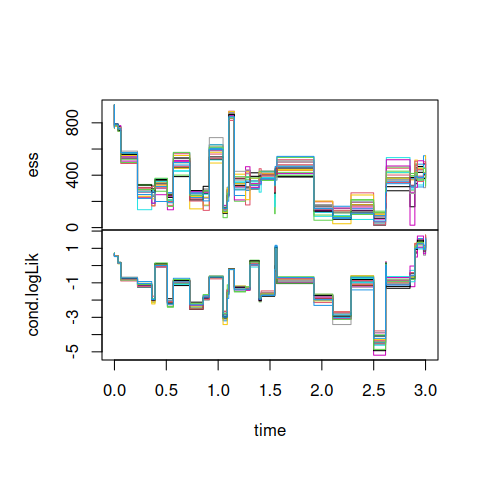
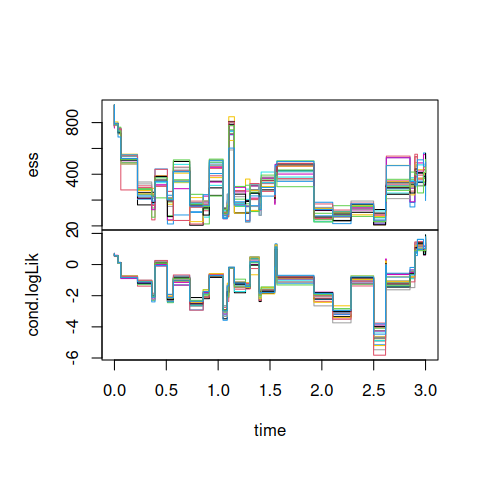
alternative filter scheme for SEIRS

diff --git a/src/seirs_pomp.c b/src/seirs_pomp.c
@@ -4,7 +4,7 @@
 #define Exposed  1
 #define Infected 2
 
-static const int nrate = 7;
+static const int nrate = 6;
 
 static inline int random_choice (double n) {
   return floor(R_unif_index(n));
@@ -65,31 +65,29 @@ static double event_rates
   double event_rate = 0;
   double alpha, pi;
   *penalty = 0;
-  // 0: transmission, s=(0,0)
+  // 0: transmission, s=(0,0) or s=(0,1)
   assert(S>=0 && I>=0);
   alpha = (POP > 0) ? Beta*S*I/POP : 0;
   pi = (I > 0) ? 1-ellI/I : 0;
   assert(I >= ellI);
   event_rate += (*rate = alpha*pi); rate++;
   *logpi = log(pi); logpi++;
-  // 1: transmission, s=(0,1)
-  pi = (1-pi)/2;
+  // 1: transmission, s=(1,0)
+  pi = 1-pi;
   event_rate += (*rate = alpha*pi); rate++;
   *logpi = log(pi)-log(ellI); logpi++;
-  // 2: transmission, s=(1,0)
-  event_rate += (*rate = alpha*pi); rate++;
-  *logpi = log(pi)-log(ellI); logpi++;
-  // 3: progression, s=(0,0)
+  // 2: progression, s=(0,0)
   assert(E>=0);
   alpha = sigma*E;
-  pi = (E > 0) ? ellE/E : 1;
+  pi = (E > 0) ? 1-ellE/E : 1;
   assert(E >= ellE);
-  event_rate += (*rate = alpha*(1-pi)); rate++;
-  *logpi = log(1-pi); logpi++;
-  // 4: progression, s=(0,1)
+  event_rate += (*rate = alpha*pi); rate++;
+  *logpi = log(pi); logpi++;
+  // 3: progression, s=(0,1)
+  pi = 1-pi;
   event_rate += (*rate = alpha*pi); rate++;
   *logpi = log(pi)-log(ellE); logpi++;
-  // 5: recovery
+  // 4: recovery
   assert(I>=0);
   alpha = gamma*I;
   if (I > ellI) {
@@ -100,7 +98,7 @@ static double event_rates
     *logpi = 0; logpi++;
     *penalty += alpha;
   }
-  // 6: waning
+  // 5: waning
   event_rate += (*rate = omega*R); rate++;
   *logpi = 0; logpi++;
   // sampling (Q = 0)
@@ -281,19 +279,13 @@ void seirs_gill
       assert(event>=0 && event<nrate);
       ll -= penalty*tstep + logpi[event];
       switch (event) {
-      case 0:                   // transmission, s=(0,0)
+      case 0:                   // transmission, s=(0,0) or s=(0,1)
         assert(S>=1);
         S -= 1; E += 1;
-        ll += log(1-ellI/I)+log(1-ellE/E);
+        ll += log(1-ellE/E);
         assert(!ISNAN(ll));
         break;
-      case 1:                   // transmission, s=(0,1)
-        assert(S>=1);
-        S -= 1; E += 1;
-        ll += log(1-ellE/E)-log(I);
-        assert(!ISNAN(ll));
-        break;
-      case 2:                   // transmission, s=(1,0)
+      case 1:                   // transmission, s=(1,0)
         assert(S>=1);
         change_color(color,nsample,random_choice(ellI),Infected,Exposed);
         ellE += 1; ellI -= 1;
@@ -301,13 +293,13 @@ void seirs_gill
         ll += log(1-ellI/I)-log(E);
         assert(!ISNAN(ll));
         break;
-      case 3:                   // progression, s=(0,0)
+      case 2:                   // progression, s=(0,0)
         assert(E>=1);
         E -= 1; I += 1;
         ll += log(1-ellI/I);
         assert(!ISNAN(ll));
         break;
-      case 4:                   // progression, s=(0,1)
+      case 3:                   // progression, s=(0,1)
         assert(E>=1);
         change_color(color,nsample,random_choice(ellE),Exposed,Infected);
         ellE -= 1; ellI += 1;
@@ -315,12 +307,12 @@ void seirs_gill
         ll -= log(I);
         assert(!ISNAN(ll));
         break;
-      case 5:                   // recovery
+      case 4:                   // recovery
         assert(I>=1);
         I -= 1; R += 1;
         assert(!ISNAN(ll));
         break;
-      case 6:                   // waning
+      case 5:                   // waning
         assert(R>=1);
         R -= 1; S += 1;
         assert(!ISNAN(ll));